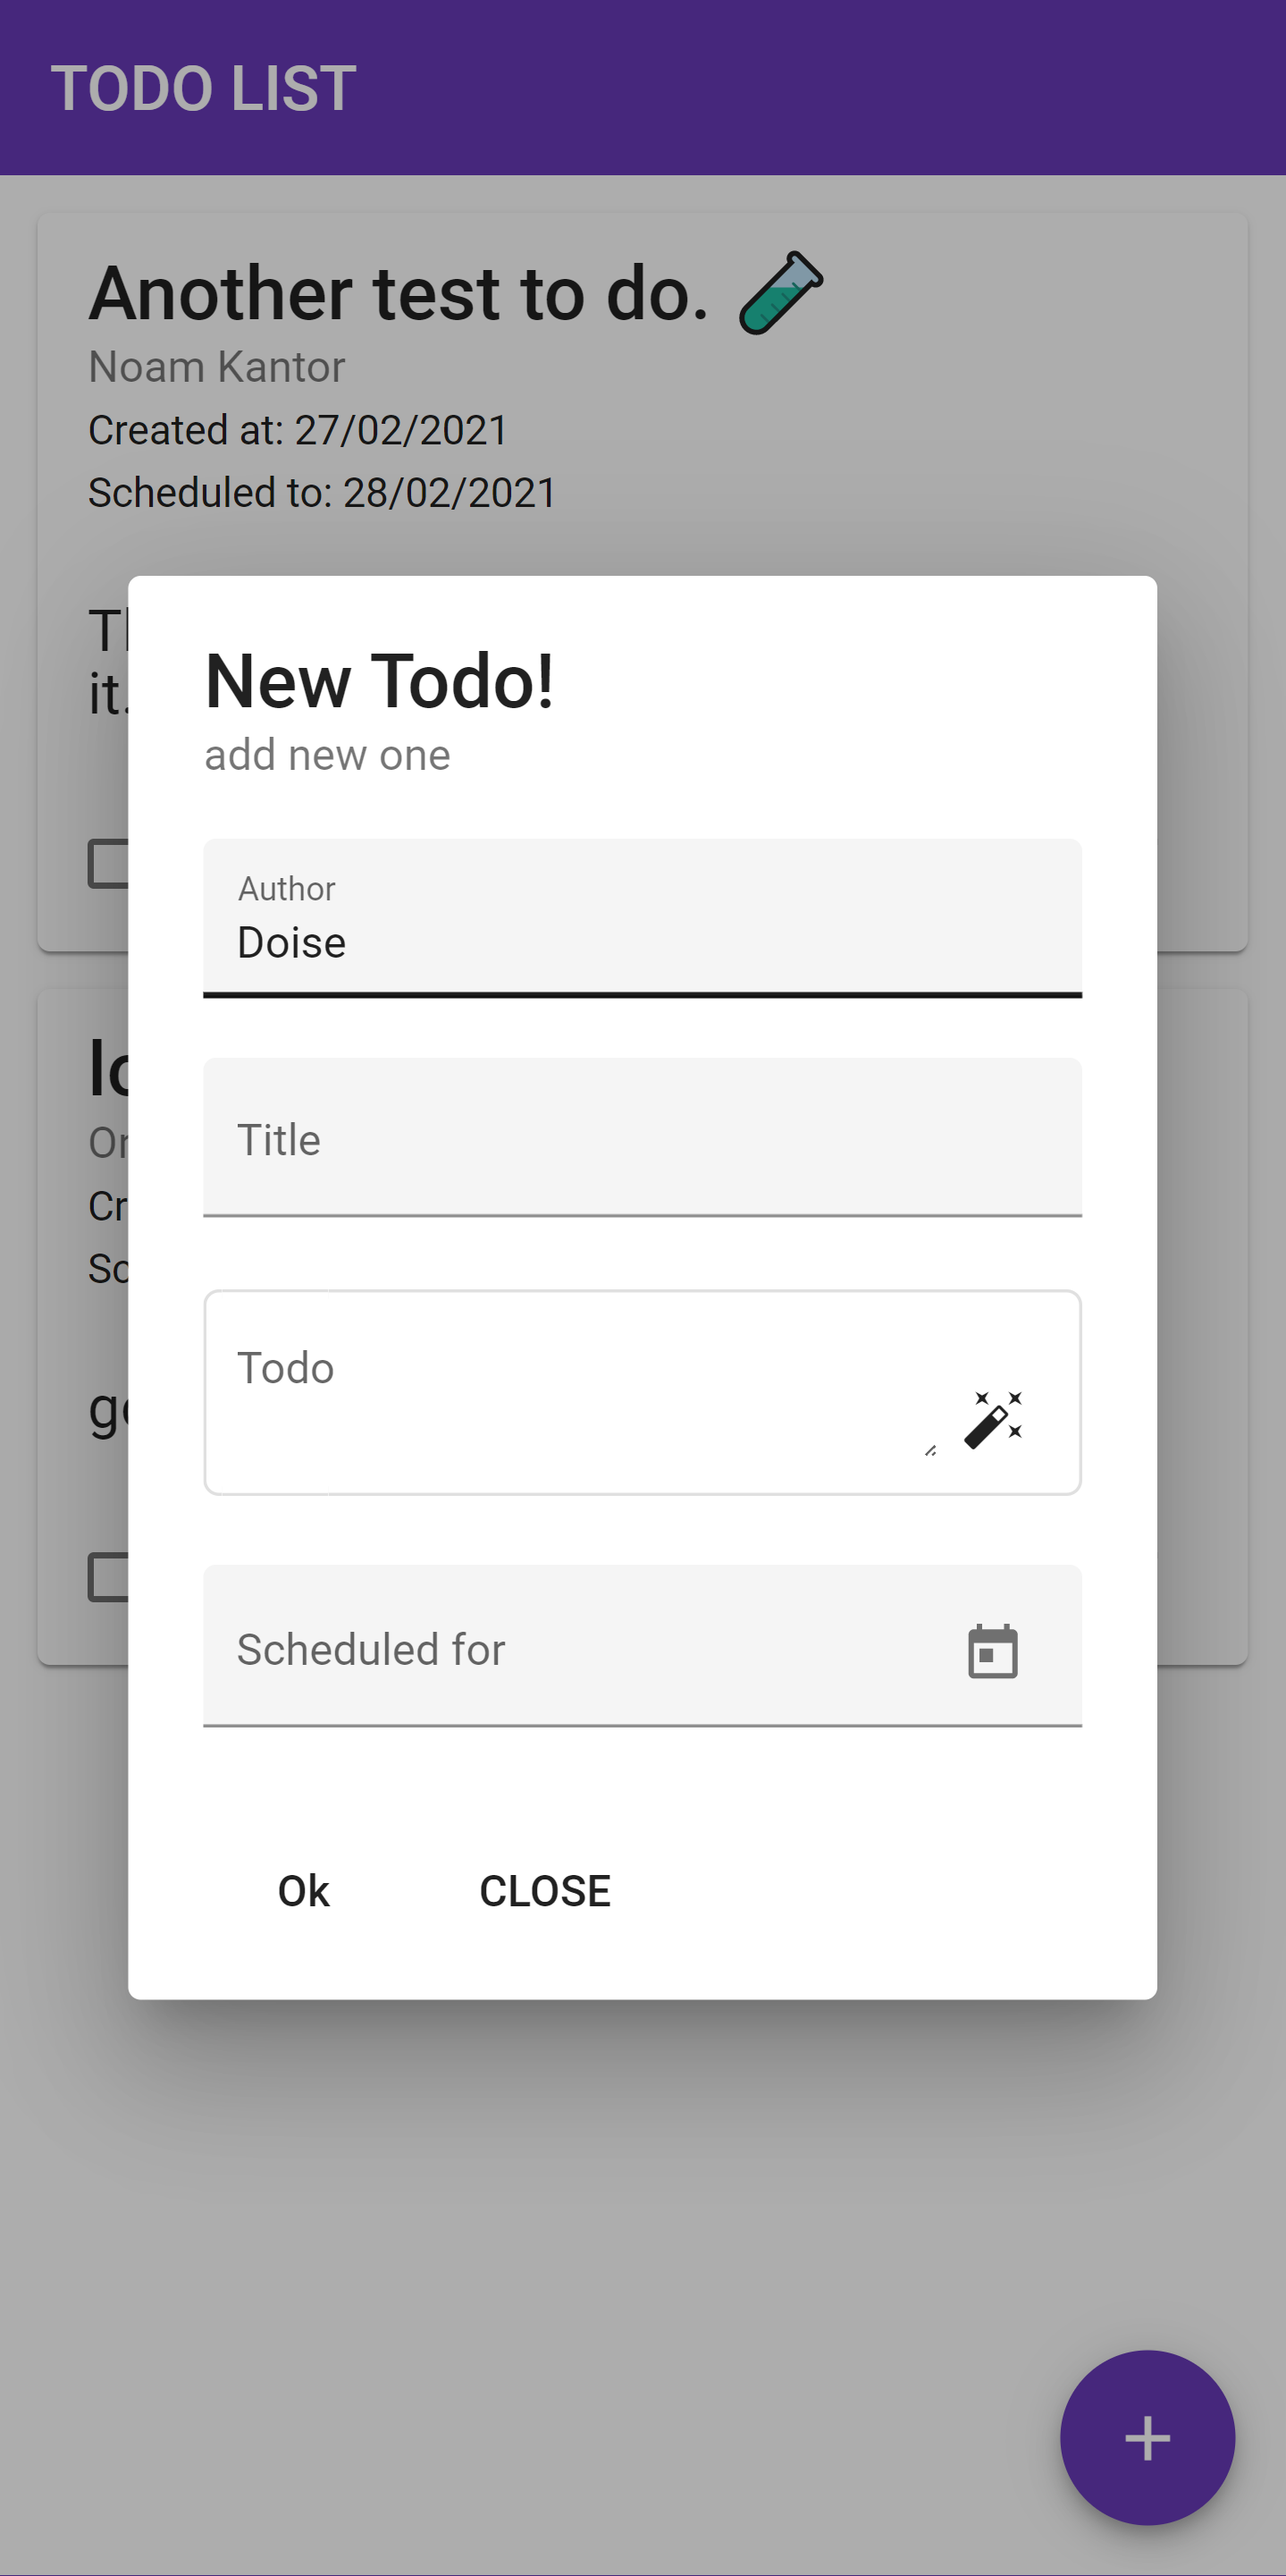
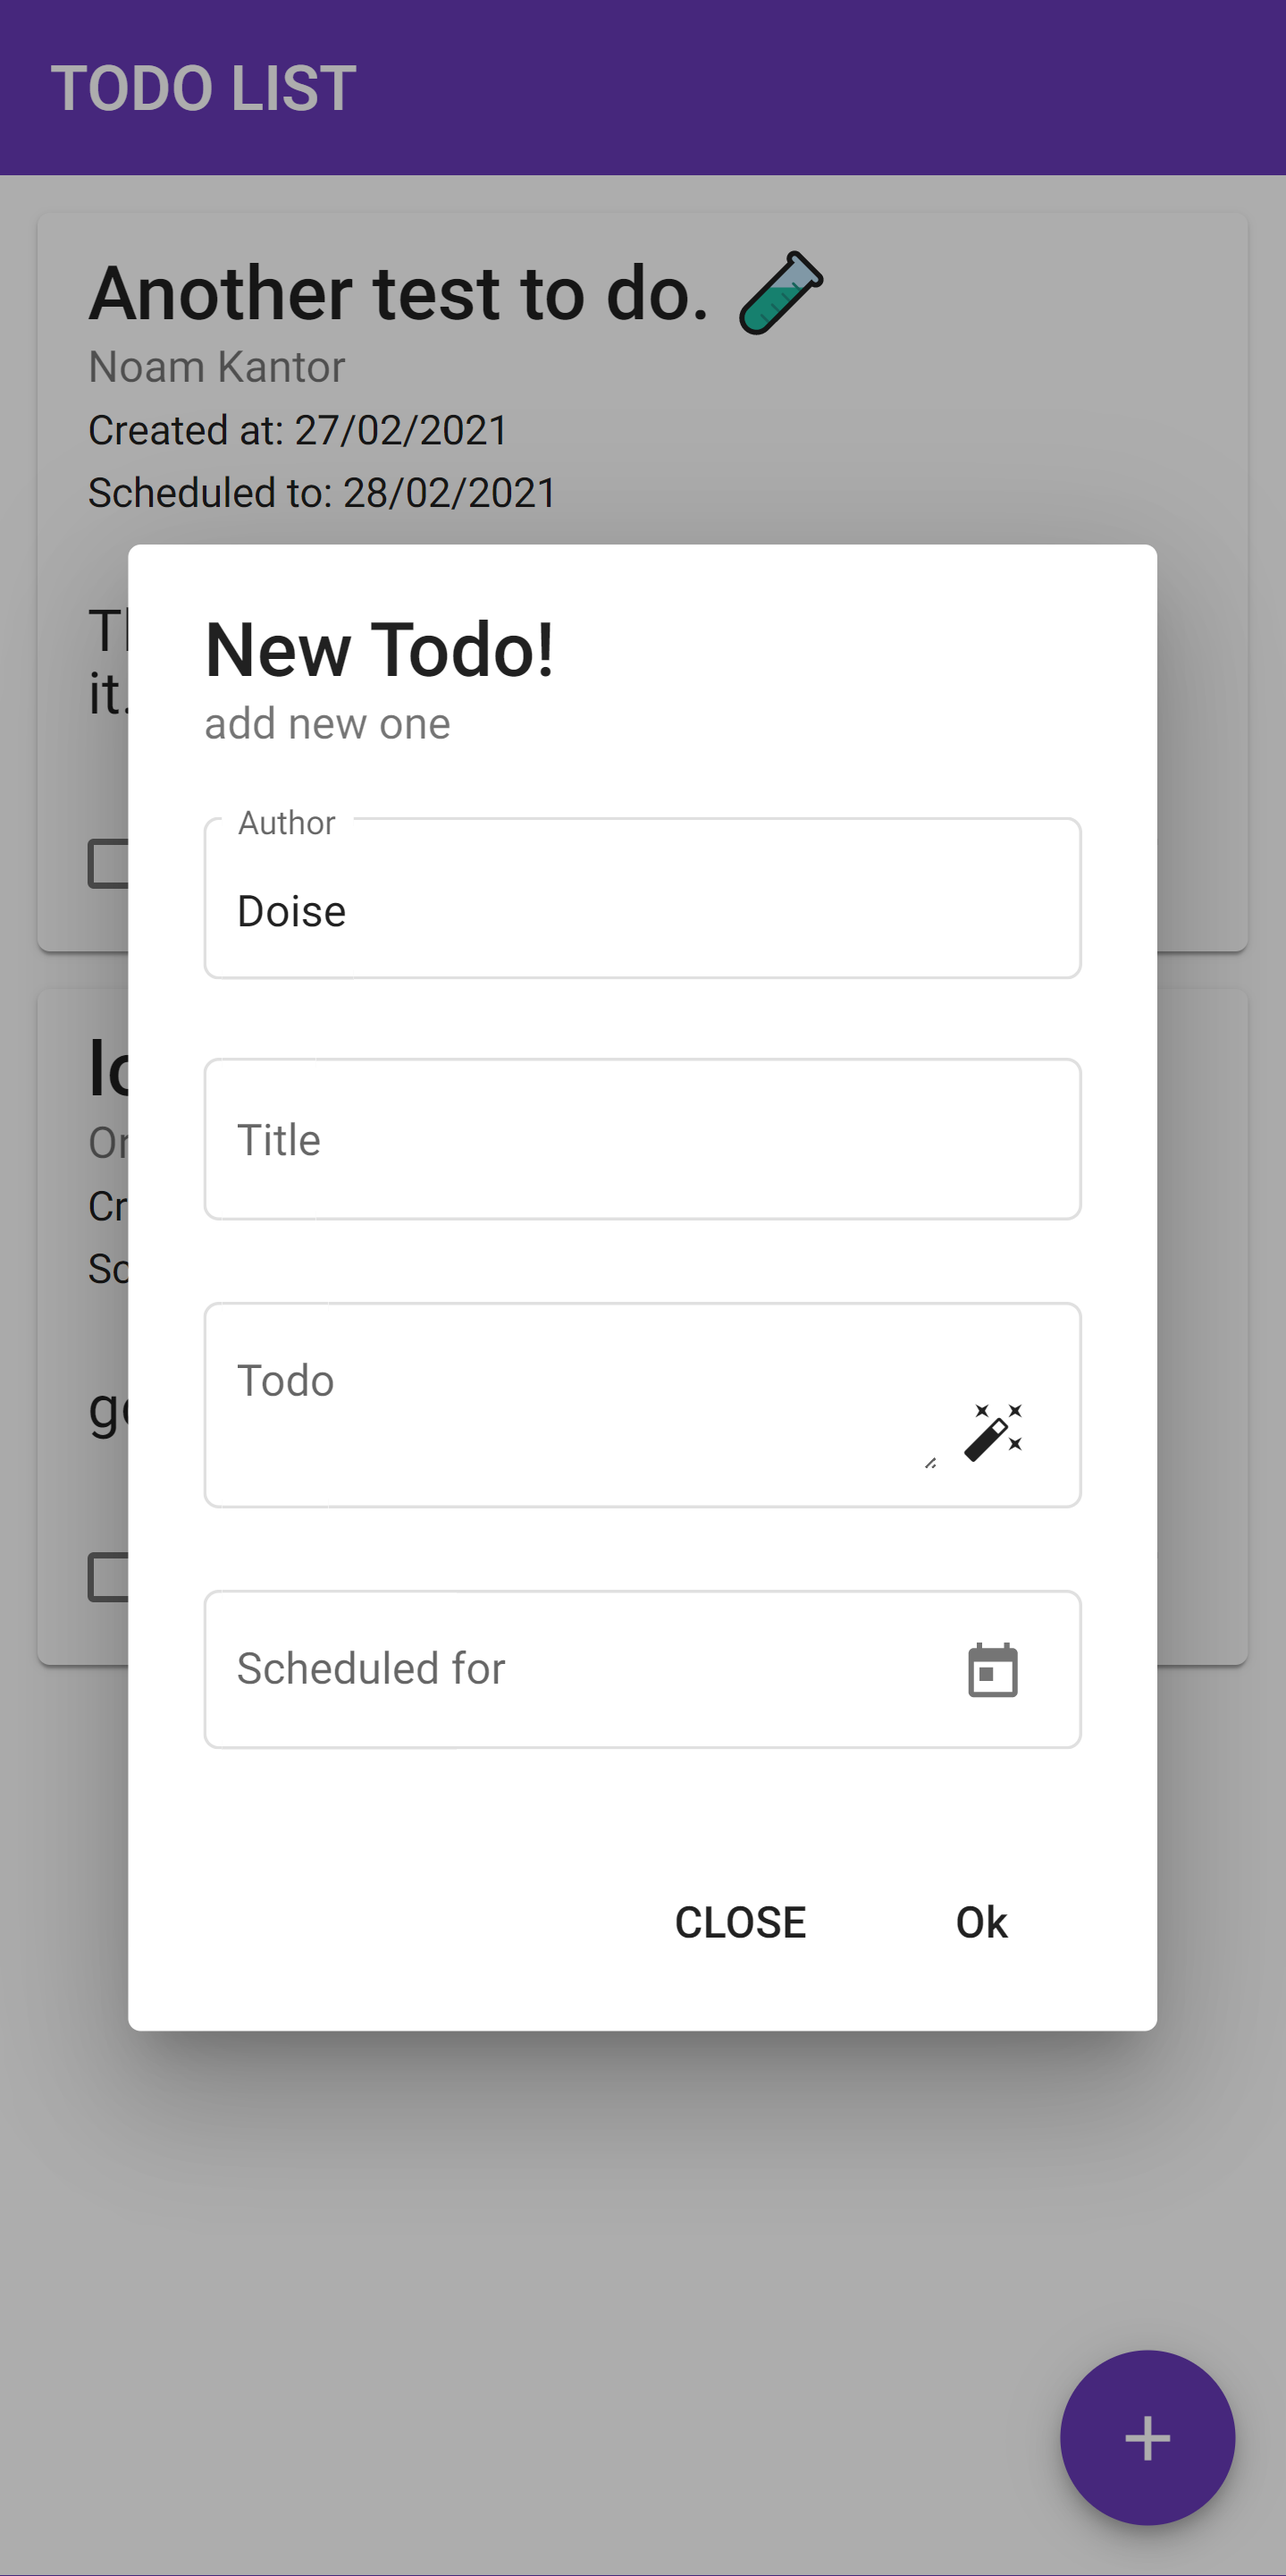
edit form fields variant

diff --git a/src/app/components/add-todo/add-todo.component.html b/src/app/components/add-todo/add-todo.component.html
@@ -9,14 +9,14 @@
   <form [formGroup]="dialogData" (submit)="createNewTodo()" class="add-todo-form">
 
     <!-- Author -->
-    <mat-form-field appearance="fill">
+    <mat-form-field appearance="outline">
       <mat-label>Author</mat-label>
       <input formControlName="author" matInput>
       <mat-error *ngIf="dialogData.invalid && (dialogData.dirty || dialogData.touched)">Not a valid author name.</mat-error>
     </mat-form-field>
 
     <!-- Title -->
-    <mat-form-field appearance="fill">
+    <mat-form-field appearance="outline">
       <mat-label>Title</mat-label>
       <input formControlName="title" matInput>
       <mat-error *ngIf="dialogData.status">Not a valid todo title.</mat-error>
@@ -33,7 +33,7 @@
     </mat-form-field>
 
     <!-- Schedule date picker -->
-    <mat-form-field appearance="fill">
+    <mat-form-field appearance="outline">
       <mat-label>Scheduled for</mat-label>
       <input matInput [matDatepicker]="picker" formControlName="scheduleAt">
       <mat-datepicker-toggle matSuffix [for]="picker"></mat-datepicker-toggle>
